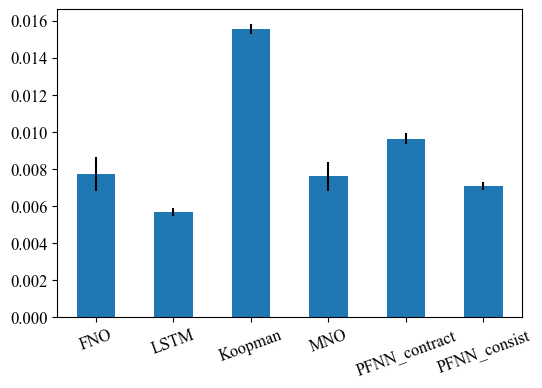
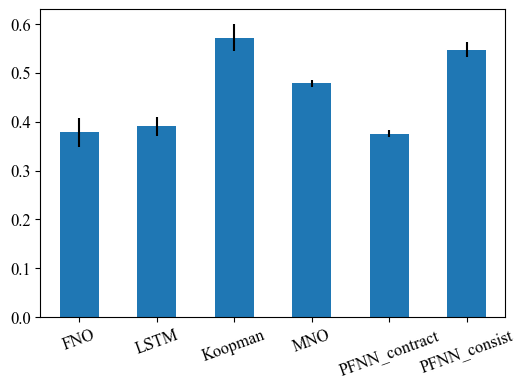
update_rebuttal

diff --git a/README.md b/README.md
@@ -25,32 +25,51 @@ Table of contents
 
 Check the code notebook url for further details. Here's a quick preview of the results:
 
-#### (1) ESN model performance on Lorenz 63 state forecasting task
+<div style="display: flex; justify-content: space-between; align-items: flex-start; font-family: Arial, sans-serif; line-height: 1.5;">
+  <!-- Column 1: ESN on Lorenz 63 -->
+  <div style="flex: 1; margin-right: 20px; max-width: 48%;">
+    <h2 style="margin-bottom: 10px;">(1) ESN model performance on Lorenz 63 state forecasting task</h2>
+    <img src="figures/updates/ESN_63.png" alt="ESN_Lorenz63" style="width: 100%; height: auto; border: 1px solid #ccc; border-radius: 5px;">
+  </div>
+  <!-- Column 2: ESN on KS -->
+  <div style="flex: 1; max-width: 48%;">
+    <h2 style="margin-bottom: 10px;">(2) ESN model performance on KS state forecasting task</h2>
+    <img src="figures/updates/ESN_ks.png" alt="ESN_KS" style="width: 100%; height: auto; border: 1px solid #ccc; border-radius: 5px;">
+  </div>
 
-![ESN_Lorenz63](figures/updates/ESN_63.png)
-
-#### (2) ESN model performance on KS state forecasting task
-
-![ESN_KS](figures/updates/ESN_ks.png)
+</div>
 
 ### **Update ! New Illustration of Contraction Constraint Effects on Operator and Results on Scaling PFNN to Dimension 256x256 NS Resolution Suggested by Reviewer pS8g**
 
-#### (1) An illustrative eigenvalues plots of the operators trained with different constraints
+#### (1) An illustrative eigenvalues/physical contraction plots of the trained operators 
 
-<!-- (1) The eigenvalues plot of non-PFNN constrainted operator, PFNN-contraction constrainted operator $G_c$ and PFNN-measure-invariant constrainted operator $G_m$ on task Lorenz96 (Dimension=80).
+| Fig.1 The eigenvalues plot of non-PFNN constrained operator,<br />PFNN-contraction constrained operator $G_c$,<br />and PFNN-measure-invariant constrained operator $G_m$<br /> on the task Lorenz96 (Dimension=80). | Fig.2 The eigenvalues plot of non-PFNN constrained operator,<br />PFNN-contraction constrained operator $G_c$ <br />and PFNN-measure-invariant constrained operator $G_m$ <br />on the task KS (Dimension=128). |
+| :-----------------------------------------------------------------------------------------------------------------------------------------------------------------------------------------------------------------------: | :------------------------------------------------------------------------------------------------------------------------------------------------------------------------------------------------------------------: |
+|                                                                         ![eigenvalues_3_operators_L96_S80](figures/updates/Eigenvalues_L96_S80.png)                                                                         |                                                                           ![eigenvalues_3_operators_KS](figures/updates/Eigenvalues_KS.png)                                                                           |
 
-![eigenvalues_3_operators_L96_S80](figures/Eigenvalues_L96_S80.png)
+**Fig.3 Contraction in physical vector field - A visualization of PFNN_contraction model prediction on Lorenz 63 system:**
 
-(2) The eigenvalues plot of non-PFNN constrainted operator, PFNN-contraction constrainted operator $G_c$ and PFNN-measure-invariant constrainted operator $G_m$ on task Lorenz96 (Dimension=80).
-![eigenvalues_3_operators_KS](figures/Eigenvalues_KS.png) -->
-
-| (1) The eigenvalues plot of non-PFNN constrained operator, PFNN-contraction constrained operator $G_c$ and PFNN-measure-invariant constrained operator $G_m$ on the task Lorenz96 (Dimension=80). | (2) The eigenvalues plot of non-PFNN constrained operator, PFNN-contraction constrained operator $G_c$ and PFNN-measure-invariant constrained operator $G_m$ on the task KS (Dimension=128). |
-| :--------------------------------------------------------------------------------------------------------------------------------------------------------------------------------------------------: | :---------------------------------------------------------------------------------------------------------------------------------------------------------------------------------------------: |
-|                                                              ![eigenvalues_3_operators_L96_S80](figures/updates/Eigenvalues_L96_S80.png)                                                              |                                                                 ![eigenvalues_3_operators_KS](figures/updates/Eigenvalues_KS.png)                                                                 |
+<div style="display: flex; justify-content: space-between; align-items: flex-start; font-family: Arial, sans-serif; line-height: 1.5;">
+  <!-- XY Field -->
+  <div style="flex: 1; margin-right: 10px; text-align: center;">
+    <img src="figures/updates/physics contraction/xy_vector.png" alt="XY Field" style="width: 100%; max-width: 300px; height: auto; border: 1px solid #ccc; border-radius: 5px;">
+    <figcaption style="margin-top: 10px; font-size: 14px;">XY Field</figcaption>
+  </div>
+  <!-- XZ Field -->
+  <div style="flex: 1; margin-right: 10px; text-align: center;">
+    <img src="figures/updates/physics contraction/xz_vector.png" alt="XZ Field" style="width: 100%; max-width: 300px; height: auto; border: 1px solid #ccc; border-radius: 5px;">
+    <figcaption style="margin-top: 10px; font-size: 14px;">XZ Field</figcaption>
+  </div>
+  <!-- YZ Field -->
+  <div style="flex: 1; text-align: center;">
+    <img src="figures/updates/physics contraction/yz_vector.png" alt="YZ Field" style="width: 100%; max-width: 300px; height: auto; border: 1px solid #ccc; border-radius: 5px;">
+    <figcaption style="margin-top: 10px; font-size: 14px;">YZ Field</figcaption>
+  </div>
+</div>
 
 #### (2) Scaling PFNN to more challenging and higher dimensional 2D Kolmogorov Flow
 
-**Short-Term prediction**
+**Fig.1 Short-Term prediction**
 
 <div style="width: 100%; display: table;">
   <div style="display: table-row;">
@@ -69,7 +88,7 @@ Check the code notebook url for further details. Here's a quick preview of the r
   </div>
 </div>
 
-**Long-term invariant statistics**
+**Fig.2 Long-term invariant statistics**
 
 <div style="width: 100%; display: table;">
   <div style="display: table-row;">
@@ -86,7 +105,106 @@ Check the code notebook url for further details. Here's a quick preview of the r
 
 ### **Update ! New Results Suggested by Reviewer GyXm**
 
-Wall clock time for baseline and PFNN predictions. (Running for 10 times resulting in mean used time and standard deviations)
+#### **(1) Trainable paprameters of baselines and PFNN modules**.
+
+We post a concise table to help the reviewer to percieve **how many parameters are used for learning tasks from low dimensional chaos to high dimensional one.**
+
+| System         | DenseNet  | Koopman   | LSTM      | MNO       | PFNN (Contract) | PFNN (Consist) |
+| -------------- | --------- | --------- | --------- | --------- | --------------- | -------------- |
+| Lorenz63 (m=3) | 114,303   | 182,253   | 200,903   | 114,303   | 114,153         | 117,073        |
+| NS (m=64x64)   | 4,507,489 | 7,653,630 | 7,873,444 | 4,877,289 | 4,425,826       | 4,746,264      |
+
+#### **(2) Computation Complexity and Wall Clock time for baselines and PFNN predictions.**
+
+**(2-1)** This section provides a comparison of the computational complexity of **LSTM**, **Koopman Autoencoder**, and **Fourier Neural Operator (FNO)** for a **single forward pass** for **one-time prediction**. The analysis includes **gate units** and **matrix multiplication** complexities.
+
+<!-- **Notation**
+
+- **Input Dimension** $d$
+- **Hidden Units / Latent Dimension** $h$
+- **Grid Size** $N$ for FNO
+- **Number of Layers** $L$
+- **Number of Blocks** $M$ for LSTM blocks, Fourier blocks in MNO
+- **Sequence Length** $T$
+
+**Complexity Comparison Table**
+
+| Method                                  | Computation Complexity         |
+| --------------------------------------- | ------------------------------ |
+| **LSTM**                          | $ O(4MTdh + 4MTh^2)$         |
+| **Koopman Operator**              | $ O(2Tdh + (L-2)Th^2)$       |
+| **Fourier Neural Operator (FNO)** | $ O(MTN\log N + TMd^2 N)$    |
+| **Markov Neural operator (MNO)**  | $ O(MTN\log N + TMd^2 N)$    |
+| **PFNN**                          | $ O(2Tdh + (L-2)Th^2 + h^3)$ |
+
+**Summary**
+
+- **LSTM**:
+  Each of the four LSTM gates (input, forget, output, candidate) requires computations proportional to $d*h + h^2$.
+- **Koopman Operator**:
+  Each typically consists of $L-2$ layers with operations scaling as $O((L-2)h^2)$ and encoder/dercoder with complexity $O(2dh)$.
+- **FNO/MNO**:
+  The computation complexity of FFT is $O(N\log N)$ and matrix multiplication $d^2 N$.
+- **PFNN**:
+  Each typically consists of $L-2$ layers with operations scaling as $O((L-2)h^2)$, encoder/dercoder with complexity $O(2Tdh)$ and eigendecomposition $O(h^3)$ at the worst case. -->
+
+<div style="display: flex; justify-content: space-between; align-items: flex-start; font-family: Arial, sans-serif; line-height: 1.5;">
+  <!-- Notation Block -->
+  <div style="flex: 1; margin-right: 20px; max-width: 30%;">
+    <h2 style="margin-bottom: 10px;">Notation</h2>
+    <ul style="list-style-type: disc; padding-left: 20px; margin: 0;">
+      <li><strong>Input Dimension</strong> <em>d</em></li>
+      <li><strong>Hidden Units / Latent Dimension</strong> <em>h</em></li>
+      <li><strong>Grid Size</strong> <em>N</em> for FNO</li>
+      <li><strong>Number of Layers</strong> <em>L</em></li>
+      <li><strong>Number of Blocks</strong> <em>M</em> for LSTM blocks, Fourier blocks in MNO</li>
+      <li><strong>Sequence Length</strong> <em>T</em></li>
+    </ul>
+  </div>
+  <!-- Complexity Comparison Table -->
+  <div style="flex: 1; margin-right: 20px; max-width: 40%;">
+    <h2 style="margin-bottom: 10px;">Complexity Comparison Table</h2>
+    <table style="width: 100%; border-collapse: collapse;">
+      <tr>
+        <th style="text-align: left; padding: 8px; border: 1px solid #ccc;">Method</th>
+        <th style="text-align: left; padding: 8px; border: 1px solid #ccc;">Computation Complexity</th>
+      </tr>
+      <tr>
+        <td style="padding: 8px; border: 1px solid #ccc;">LSTM</td>
+        <td style="padding: 8px; border: 1px solid #ccc;">O(4MTdh + 4MTh²)</td>
+      </tr>
+      <tr>
+        <td style="padding: 8px; border: 1px solid #ccc;">Koopman Operator</td>
+        <td style="padding: 8px; border: 1px solid #ccc;">O(2Tdh + (L-2)Th²)</td>
+      </tr>
+      <tr>
+        <td style="padding: 8px; border: 1px solid #ccc;">Fourier Neural Operator (FNO)</td>
+        <td style="padding: 8px; border: 1px solid #ccc;">O(MTNlogN + TMd²N)</td>
+      </tr>
+      <tr>
+        <td style="padding: 8px; border: 1px solid #ccc;">Markov Neural Operator (MNO)</td>
+        <td style="padding: 8px; border: 1px solid #ccc;">O(MTNlogN + TMd²N)</td>
+      </tr>
+      <tr>
+        <td style="padding: 8px; border: 1px solid #ccc;">PFNN</td>
+        <td style="padding: 8px; border: 1px solid #ccc;">O(2Tdh + (L-2)Th² + h³)</td>
+      </tr>
+    </table>
+  </div>
+  <!-- Summary Block -->
+  <div style="flex: 1; max-width: 30%;">
+    <h2 style="margin-bottom: 10px;">Summary</h2>
+    <ul style="list-style-type: disc; padding-left: 20px; margin: 0;">
+      <li><strong>LSTM:</strong> Each of the four LSTM gates (input, forget, output, candidate) requires computations proportional to <em>d*h + h²</em>.</li>
+      <li><strong>Koopman Operator:</strong> Each typically consists of <em>L-2</em> layers with operations scaling as <em>O((L-2)h²)</em> and encoder/decoder complexity <em>O(2dh)</em>.</li>
+      <li><strong>FNO/MNO:</strong> The computation complexity of FFT is <em>O(NlogN)</em> and matrix multiplication is <em>d²N</em>.</li>
+      <li><strong>PFNN:</strong> Each typically consists of <em>L-2</em> layers with operations scaling as <em>O((L-2)h²)</em>, encoder/decoder complexity <em>O(2Tdh)</em>, and eigendecomposition <em>O(h³)</em> at the worst case.</li>
+    </ul>
+  </div>
+
+</div>
+
+**(2-2)** We post a concise table to show **how many seconds each model uses to predict 100 steps for a typical medium dimensional chaos system**. (Data run *for 10 rounds resulting in mean used time and standard deviations*)
 
 <div style="display: flex; align-items: center;">
   <div style="flex: 1; margin-right: 20px;">
@@ -101,33 +219,33 @@ Wall clock time for baseline and PFNN predictions. (Running for 10 times resulti
       <tbody>
         <tr>
           <td>FNO</td>
-          <td>0.007735</td>
-          <td>0.000919</td>
+          <td>0.378181</td>
+          <td>0.029658</td>
         </tr>
         <tr>
           <td>LSTM</td>
-          <td>0.005702</td>
-          <td>0.000214</td>
+          <td>0.3903</td>
+          <td>0.018972</td>
         </tr>
         <tr>
           <td>Koopman</td>
-          <td>0.015555</td>
-          <td>0.000269</td>
+          <td>0.571751</td>
+          <td>0.027942</td>
         </tr>
         <tr>
           <td>MNO</td>
-          <td>0.007597</td>
-          <td>0.000773</td>
+          <td>0.478575</td>
+          <td>0.007105</td>
         </tr>
         <tr>
           <td>PFNN_contract</td>
-          <td>0.009644</td>
-          <td>0.000306</td>
+          <td>0.37564</td>
+          <td>0.006232</td>
         </tr>
         <tr>
           <td>PFNN_consist</td>
-          <td>0.007097</td>
-          <td>0.000215</td>
+          <td>0.547125</td>
+          <td>0.015539</td>
         </tr>
       </tbody>
     </table>
@@ -145,7 +263,7 @@ Wall clock time for baseline and PFNN predictions. (Running for 10 times resulti
 
 ![1727441482180](image/README/1727441482180.png)
 
-### KS (1D, Dimension128)
+### Kuramoto-Sivashinsky (1D, Dimension128)
 
 ![1727441582689](image/README/1727441582689.png)
 
